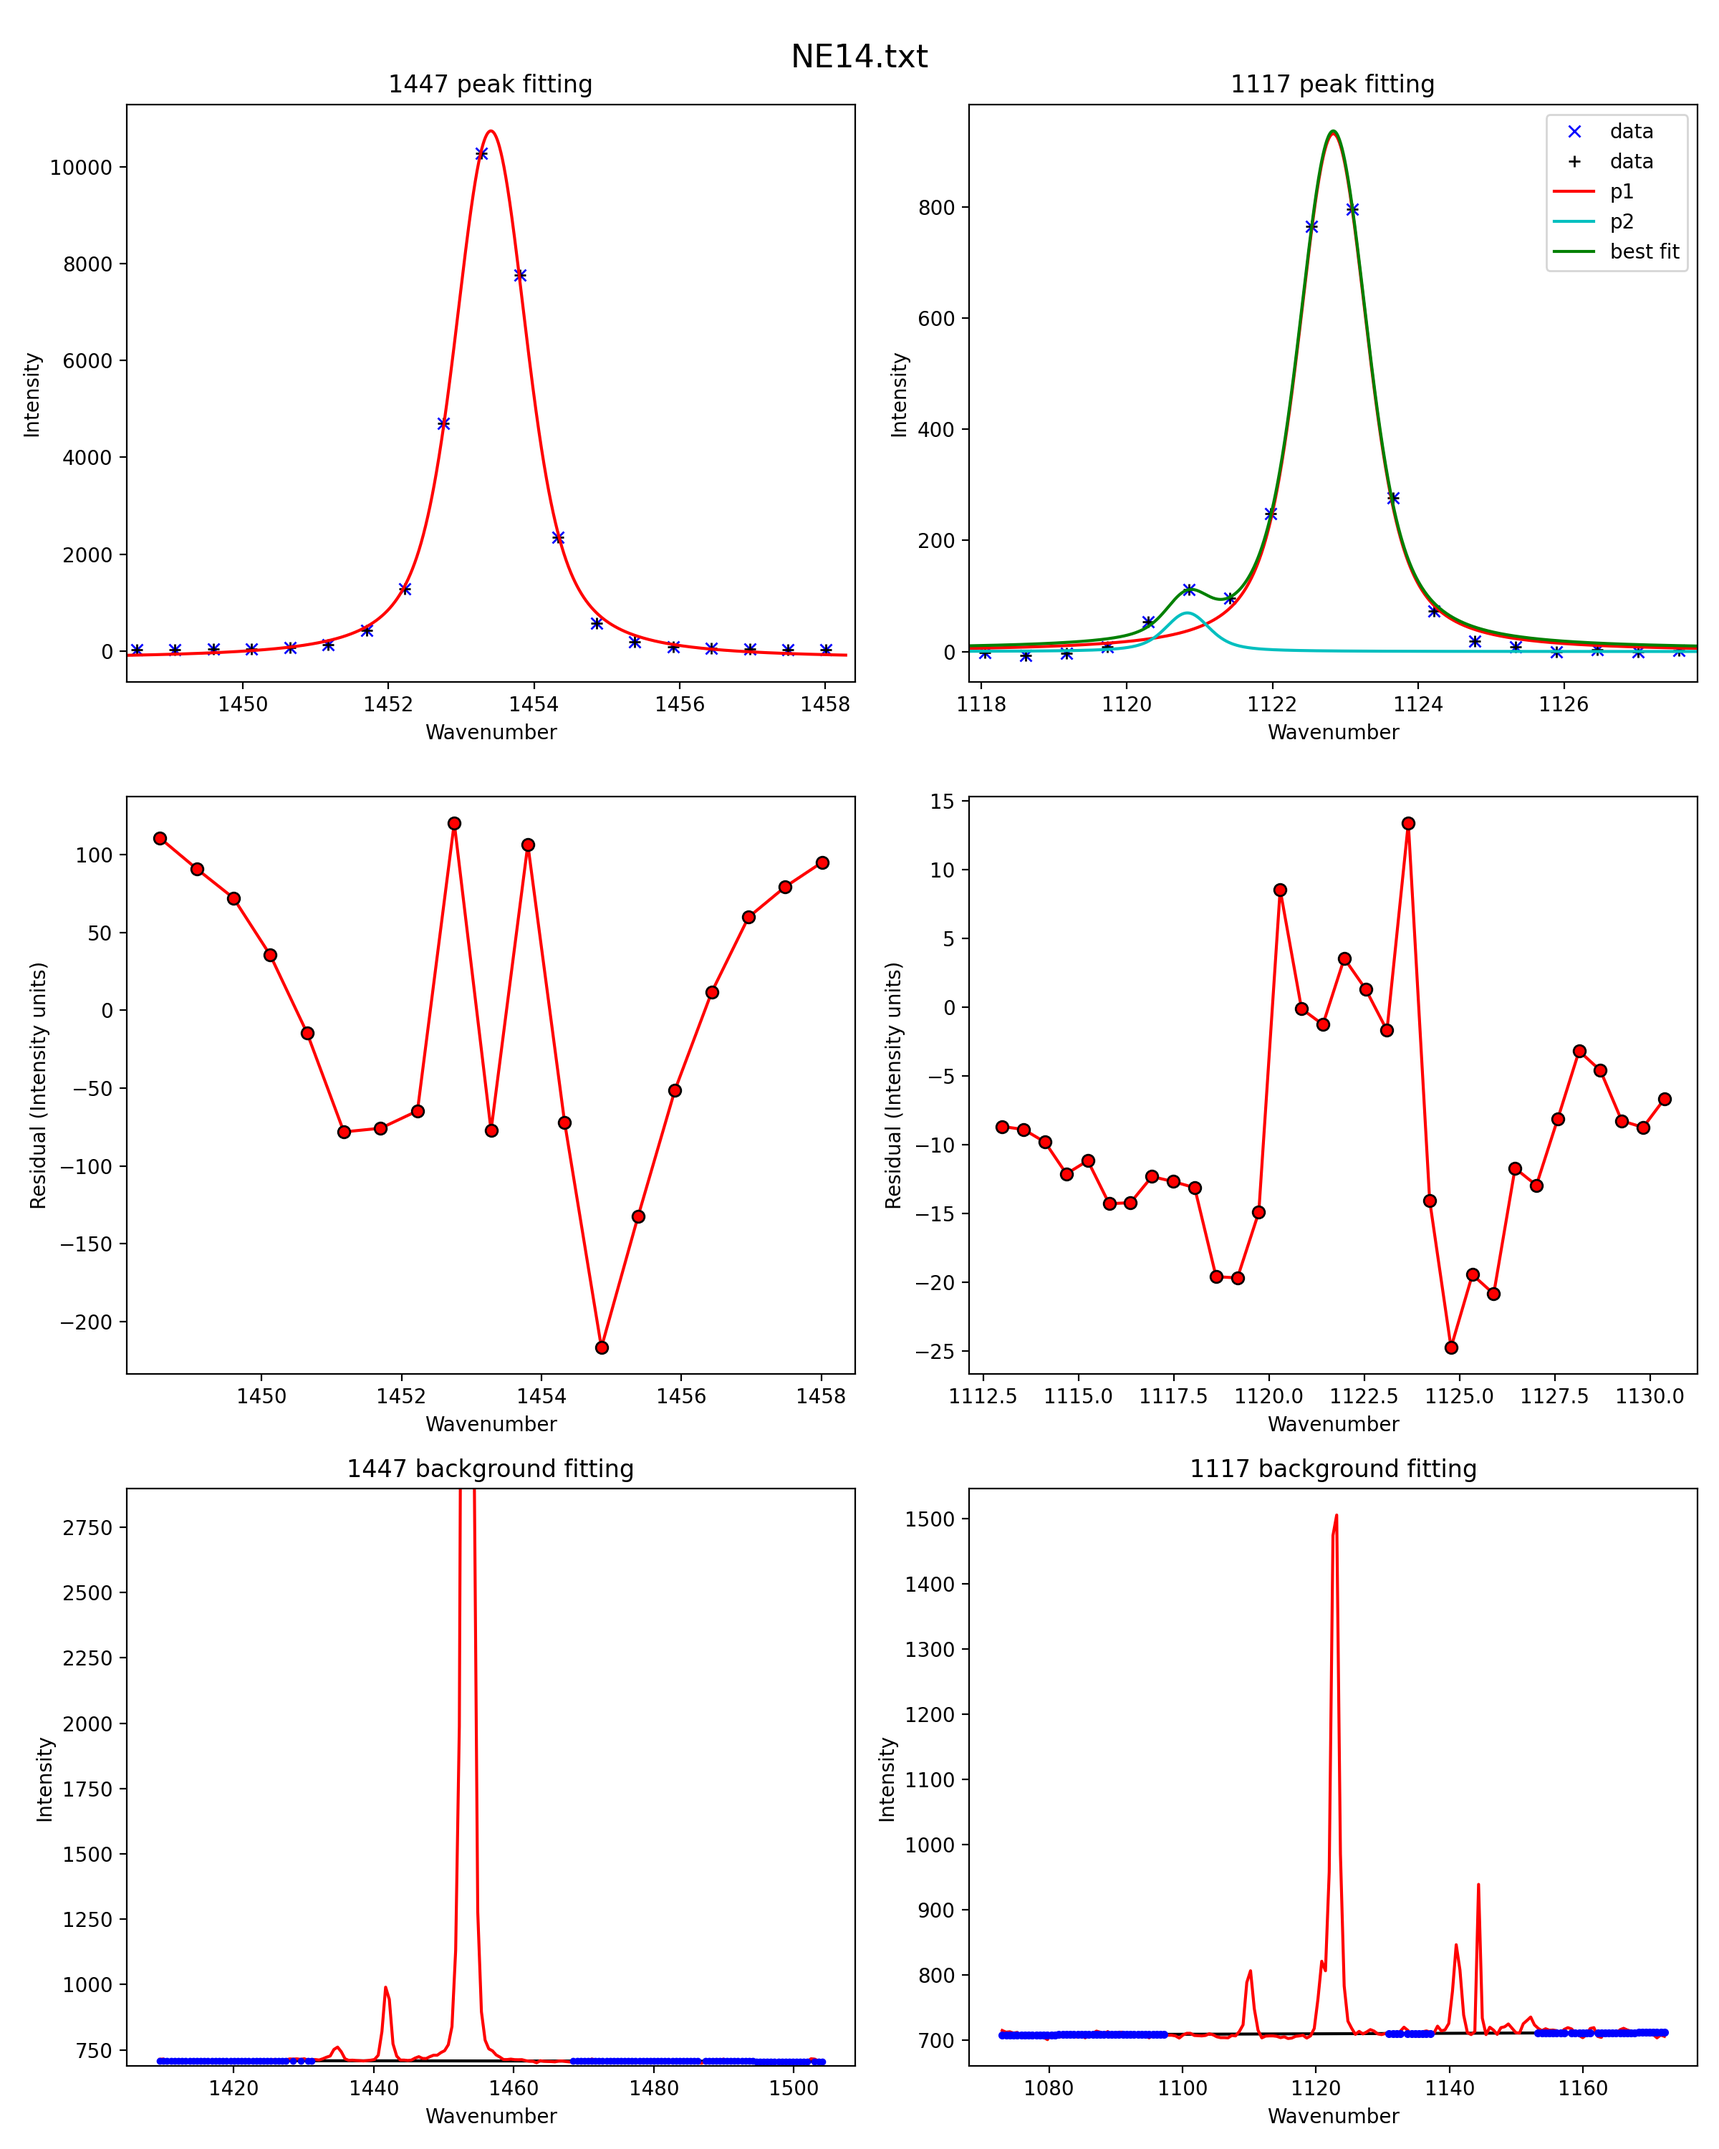
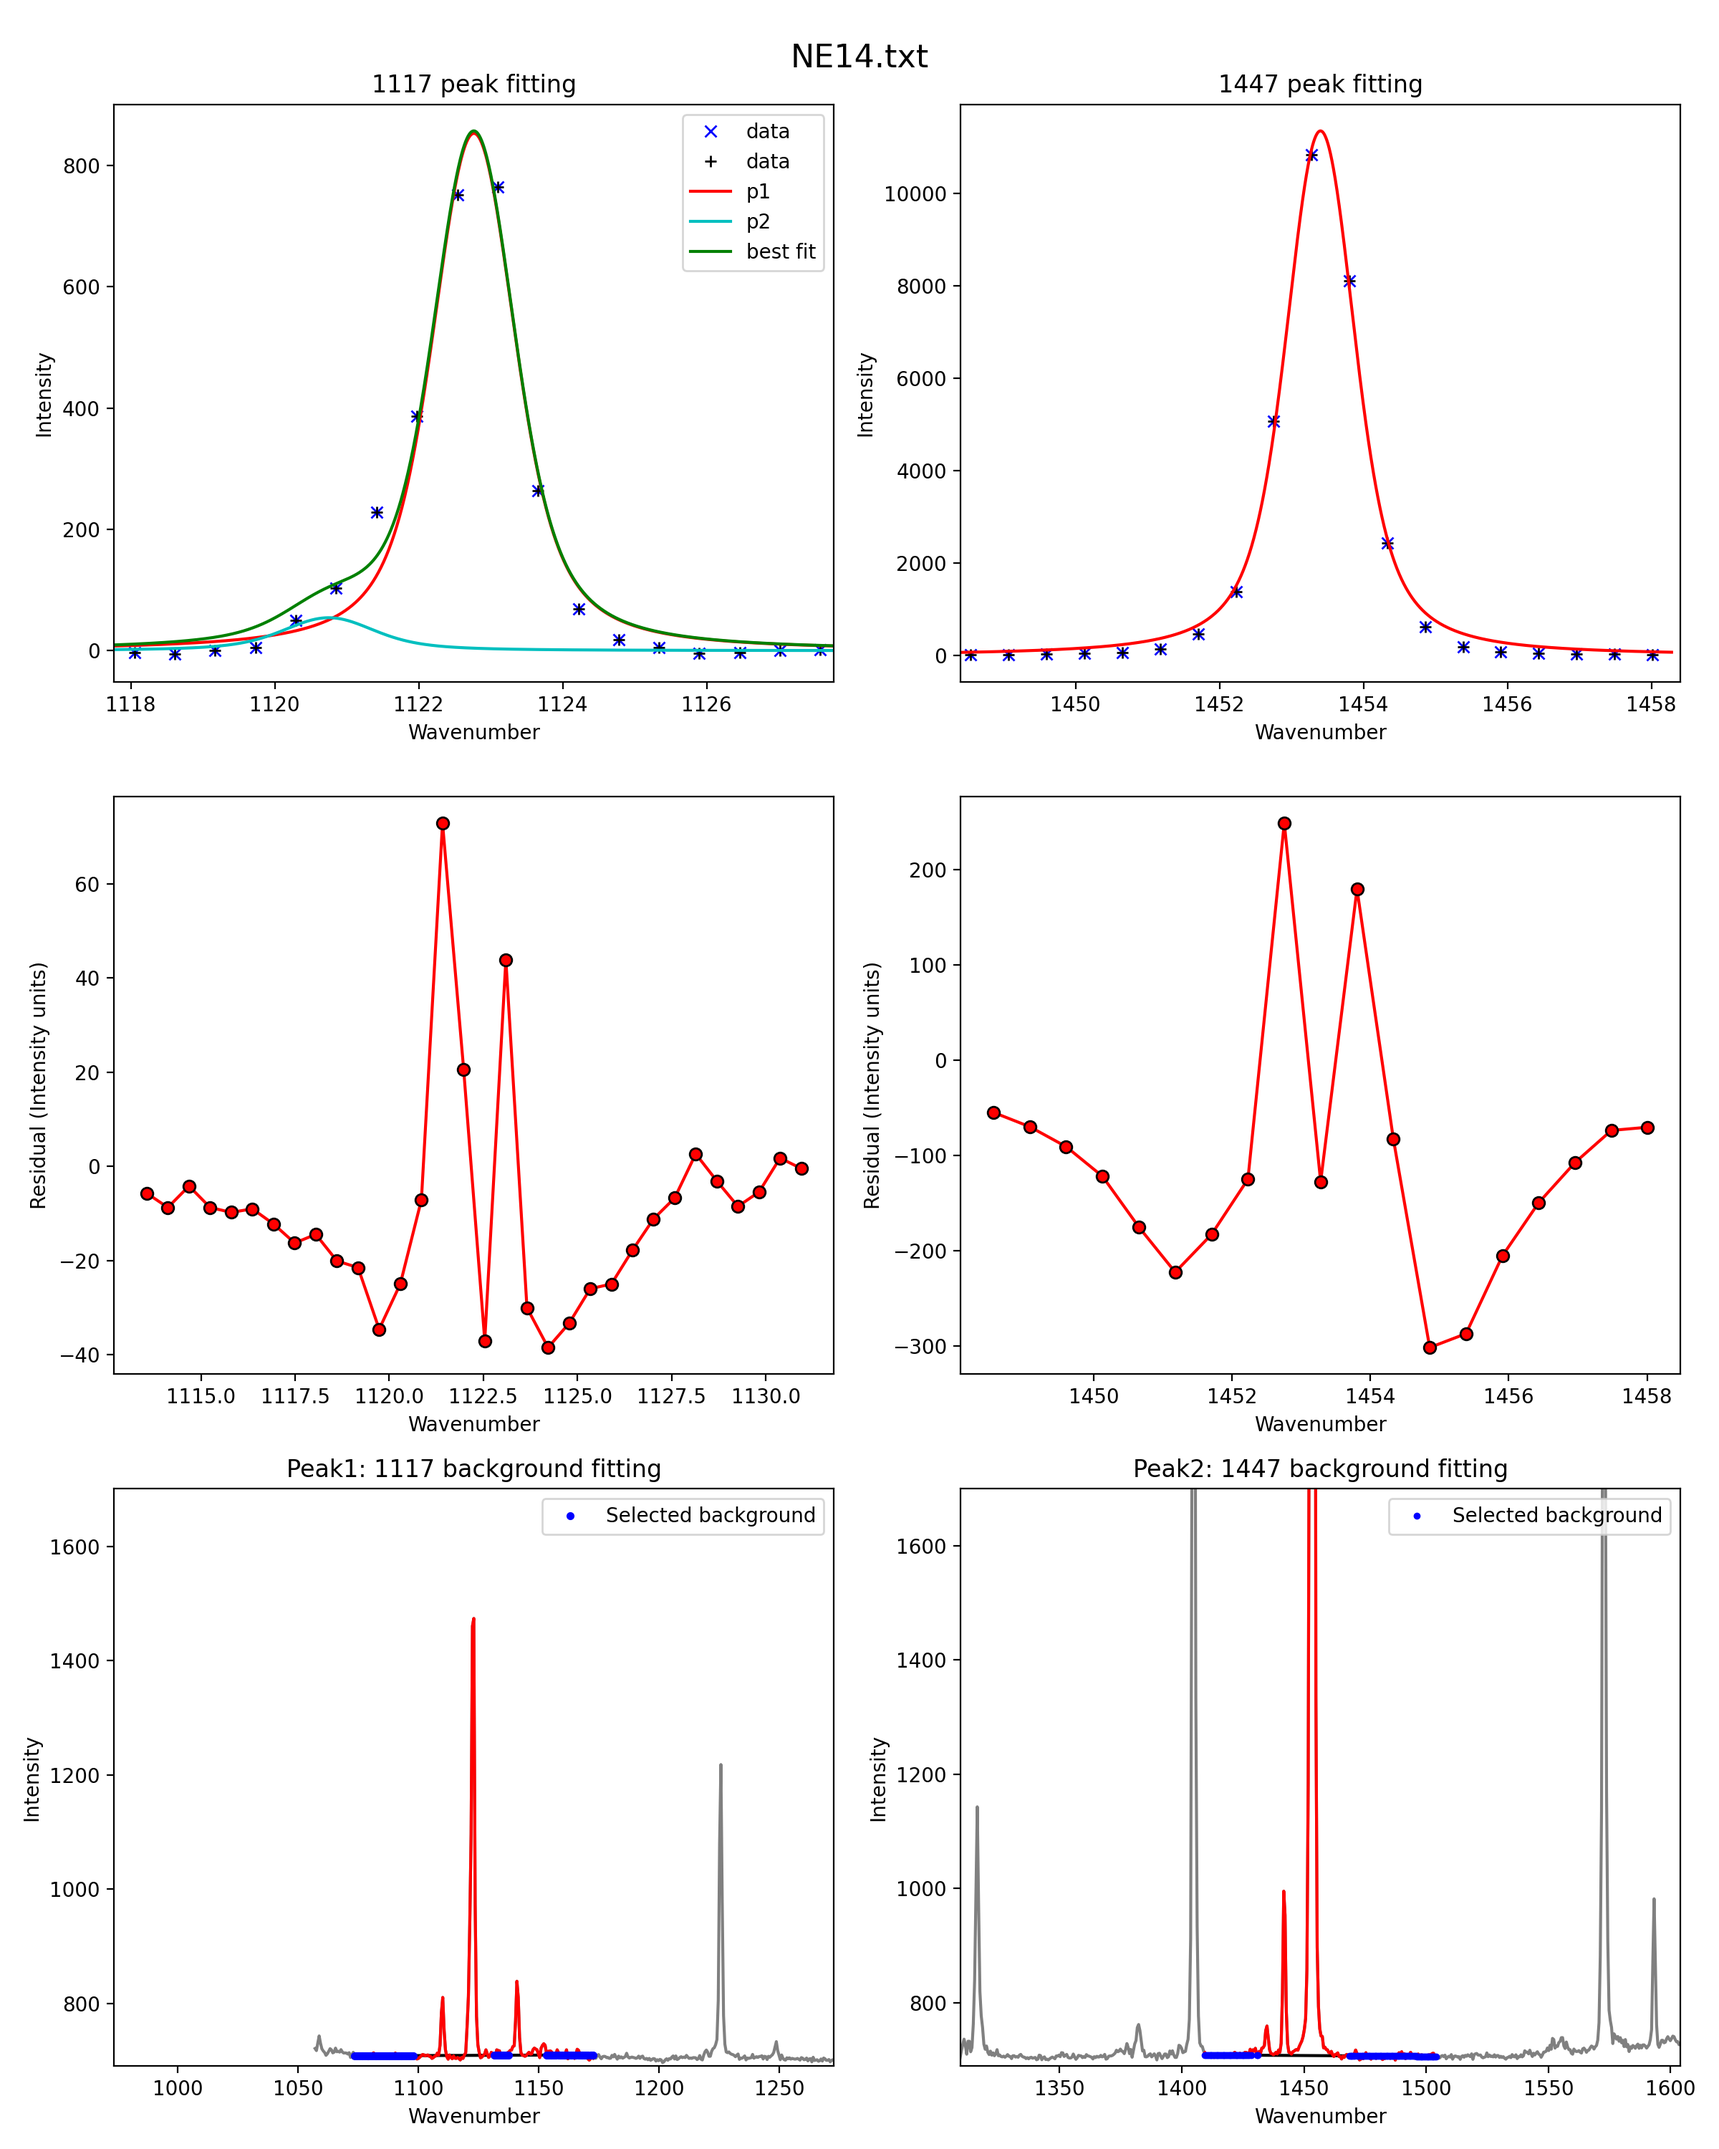
Changed parametrs for Ne lines so user specifise backgroud, and can override with an x range to fit betwee

diff --git a/DiadFit.py b/DiadFit.py
@@ -113,7 +113,7 @@ def get_data(*, path=None, filename, filetype='Witec_ASCII'):
 
     if filetype=='Renishaw_txt':
         df_long=pd.read_csv(path+'/'+filename, sep="\t" )
-        df=Ne_df_long.iloc[:, 0:2]
+        df=df_long.iloc[:, 0:2]
 
     if filetype=='HORIBA_txt':
         df=read_HORIBA_to_df(path=path, filename=filename)
@@ -821,8 +821,11 @@ Ne_center_1=1117.1, N_poly_1_baseline=1, x_span_1=[-10, 8],
 LH_offset_mini=[1.5, 3], peaks_1=2,
 lower_bck_pk1=[-50, -25], upper_bck1_pk1=[8, 15], upper_bck2_pk1=[30, 50],
 Ne_center_2=1147, N_poly_2_baseline=1, x_span_2=[-5, 5],
+x_span_pk1_override=None, x_span_pk2_override=None,
 lower_bck_pk2=[-44.2, -22], upper_bck1_pk2=[15, 50], upper_bck2_pk2=[50, 51],
 amplitude=100, plot_figure=True, print_report=False, loop=False, x_range=100, y_range=1000):
+
+
 
 
     """ This function reads in a user file, fits the Ne lines, and if required, saves an image
@@ -857,6 +860,9 @@ amplitude=100, plot_figure=True, print_report=False, loop=False, x_range=100, y_
         How much x range outside selected baseline the baseline selection plot shows.
     y_range: flt, int
         How much above the baseline position is shown on the y axis.
+
+    x_span_pk2_override, x_span_pk1_override: list
+        determins how mayn point to either side of peak you want to fit, if different from background positions
 
     Things for Diad 1 (~1117):
 
@@ -909,12 +915,27 @@ amplitude=100, plot_figure=True, print_report=False, loop=False, x_range=100, y_
     y_corr_1447, Py_base_1447, x_1447, Ne_short_1447, Py_base_1447, Baseline_ysub_1447, Baseline_x_1447=remove_Ne_baseline_1447(Ne, Ne_center_2=Ne_center_2, N_poly_1447_baseline=N_poly_2_baseline,
     lower_bck=lower_bck_pk2, upper_bck1=upper_bck1_pk2, upper_bck2=upper_bck2_pk2)
 
+    if x_span_pk1_override is None:
+
+        x_span_pk1=[lower_bck_pk1[1], upper_bck1_pk1[0]]
+        x_span_pk1_dist=abs(lower_bck_pk1[1]-upper_bck1_pk1[0])
+    else:
+        x_span_pk1=x_span_pk1_override
+        x_span_pk1_dist=abs(x_span_pk1[1]-x_span_pk1[0])
+
+    if x_span_pk2_override is None:
+        x_span_pk2=[lower_bck_pk2[1], upper_bck1_pk2[0]]
+        x_span_pk2_dist=abs(lower_bck_pk2[1]-upper_bck1_pk2[0])
+    else:
+        x_span_pk2=x_span_pk2_override
+        x_span_pk2_dist=abs(x_span_pk2[1]-x_span_pk2[0])
+
     # Fit the 1117 peak
-    cent_1117, Ne_1117_reg_x_plot, Ne_1117_reg_y_plot, Ne_1117_reg_x, Ne_1117_reg_y, xx_1117, result_1117, error_1117, result_1117_origx, comps = fit_1117(x_1117, y_corr_1117, x_span=x_span_1, Ne_center=Ne_center_1, LH_offset_mini=LH_offset_mini, peaks_1117=peaks_1, amplitude=amplitude, print_report=print_report)
+    cent_1117, Ne_1117_reg_x_plot, Ne_1117_reg_y_plot, Ne_1117_reg_x, Ne_1117_reg_y, xx_1117, result_1117, error_1117, result_1117_origx, comps = fit_1117(x_1117, y_corr_1117, x_span=x_span_pk1, Ne_center=Ne_center_1, LH_offset_mini=LH_offset_mini, peaks_1117=peaks_1, amplitude=amplitude, print_report=print_report)
 
 
     # Fit the 1447 peak
-    cent_1447, Ne_1447_reg_x_plot, Ne_1447_reg_y_plot, Ne_1447_reg_x, Ne_1447_reg_y, xx_1447, result_1447, error_1447, result_1447_origx = fit_1447(x_1447, y_corr_1447, x_span=x_span_2,  Ne_center=Ne_center_2, amplitude=amplitude, print_report=print_report)
+    cent_1447, Ne_1447_reg_x_plot, Ne_1447_reg_y_plot, Ne_1447_reg_x, Ne_1447_reg_y, xx_1447, result_1447, error_1447, result_1447_origx = fit_1447(x_1447, y_corr_1447, x_span=x_span_pk2,  Ne_center=Ne_center_2, amplitude=amplitude, print_report=print_report)
 
 
     # Calculate difference between peak centers, and Delta Ne
@@ -978,7 +999,7 @@ amplitude=100, plot_figure=True, print_report=False, loop=False, x_range=100, y_
         ax2.set_title('1447 peak fitting')
         ax2.set_xlabel('Wavenumber')
         ax2.set_ylabel('Intensity')
-        ax2.set_xlim([cent_1447-5, cent_1447+5])
+        ax2.set_xlim([cent_1447-x_span_pk2_dist/2, cent_1447++x_span_pk2_dist/2])
 
 
         ax3.plot(Ne_1117_reg_x_plot, Ne_1117_reg_y_plot, 'xb', label='data')
@@ -992,7 +1013,7 @@ amplitude=100, plot_figure=True, print_report=False, loop=False, x_range=100, y_
             ax3.plot(xx_1117, comps.get('p2_'), '-c', label='p2')
         ax3.plot(xx_1117, result_1117, 'g-', label='best fit')
         ax3.legend()
-        ax3.set_xlim([cent_1117-5,cent_1117+5 ])
+        ax3.set_xlim([cent_1117-x_span_pk1_dist/2,cent_1117+x_span_pk1_dist/2 ])
 
         # Residuals for charlotte
         ax4.plot(Ne_1447_reg_x, Ne_1447_reg_y-result_1447_origx, '-r', label='residual')
